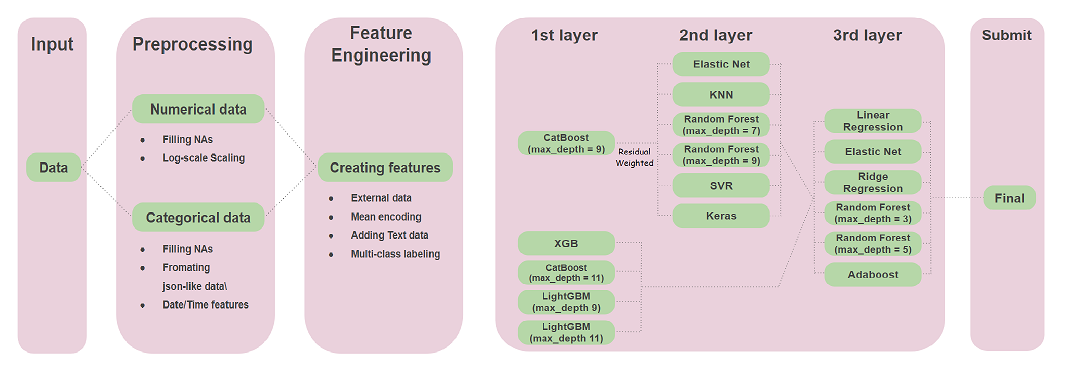
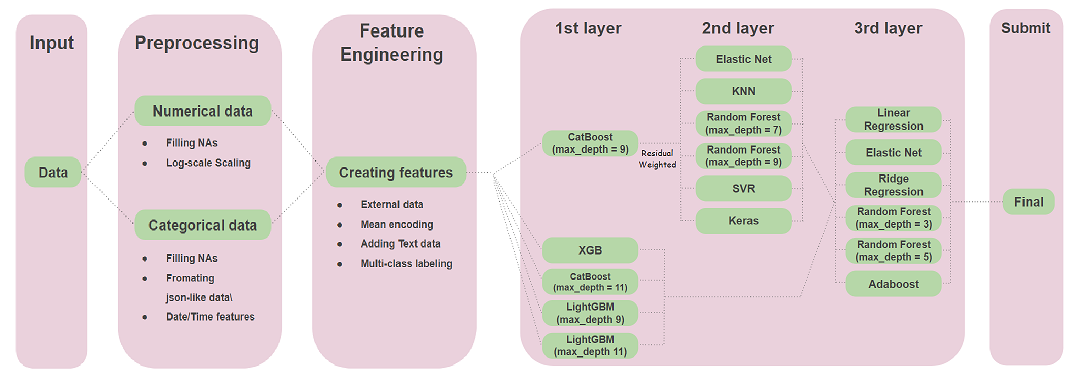
Adjust Readme & Change image

diff --git a/README.md b/README.md
@@ -14,8 +14,9 @@ The metric used is the root-mean-squared error and the accuracy of the first bas
 <br>
 
 * **Project Date:** Apr - May, 2019
-* **Applied skills:** Data Preprocessing and Manipulation, Multi-class Encoding, Scraping data with TMDB API, Extensive Exploratory Data Analysis, Feature engineering, Cross Validation, Residual Weighted Boosting, Stacking Models, and Ensemble Learning.  
+* **Applied skills:** Data Preprocessing and Manipulation, Scraping data with TMDB API, Intensive Exploratory Data Analysis, Feature engineering, Cross Validation, Residual Weighted Boosting, Stacking Models, and Ensemble Learning.  
 
+<br>
 
 ## ***2. FlowChart***
 
